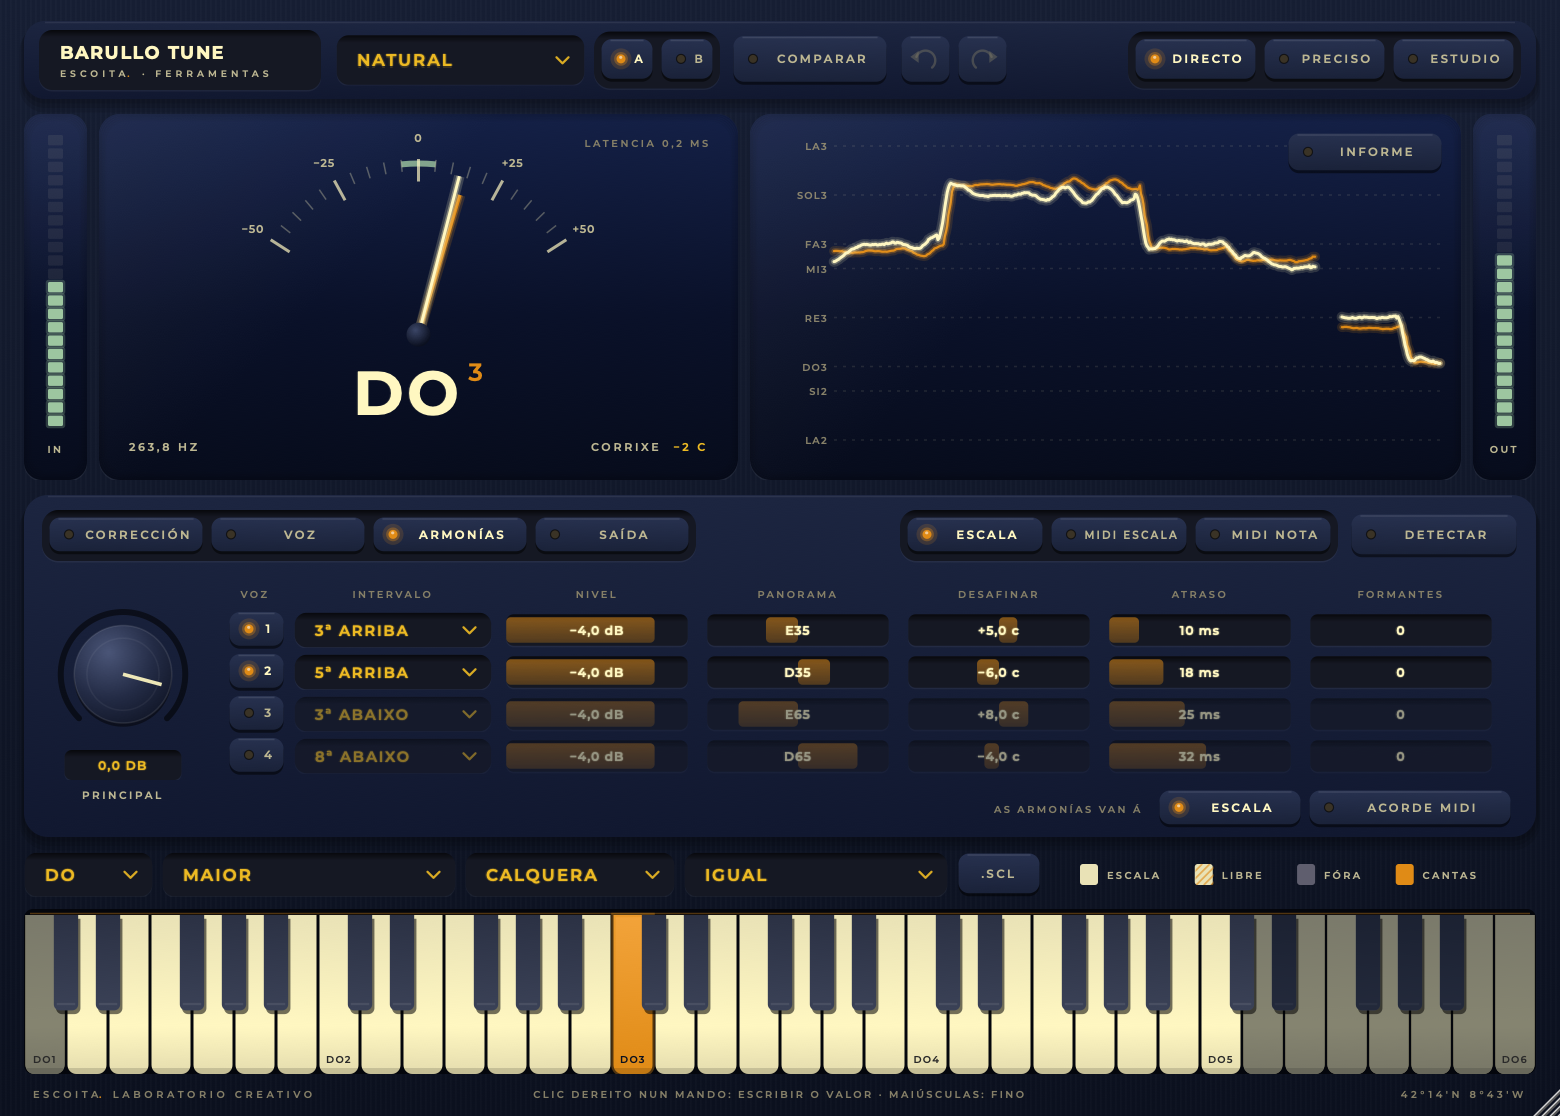
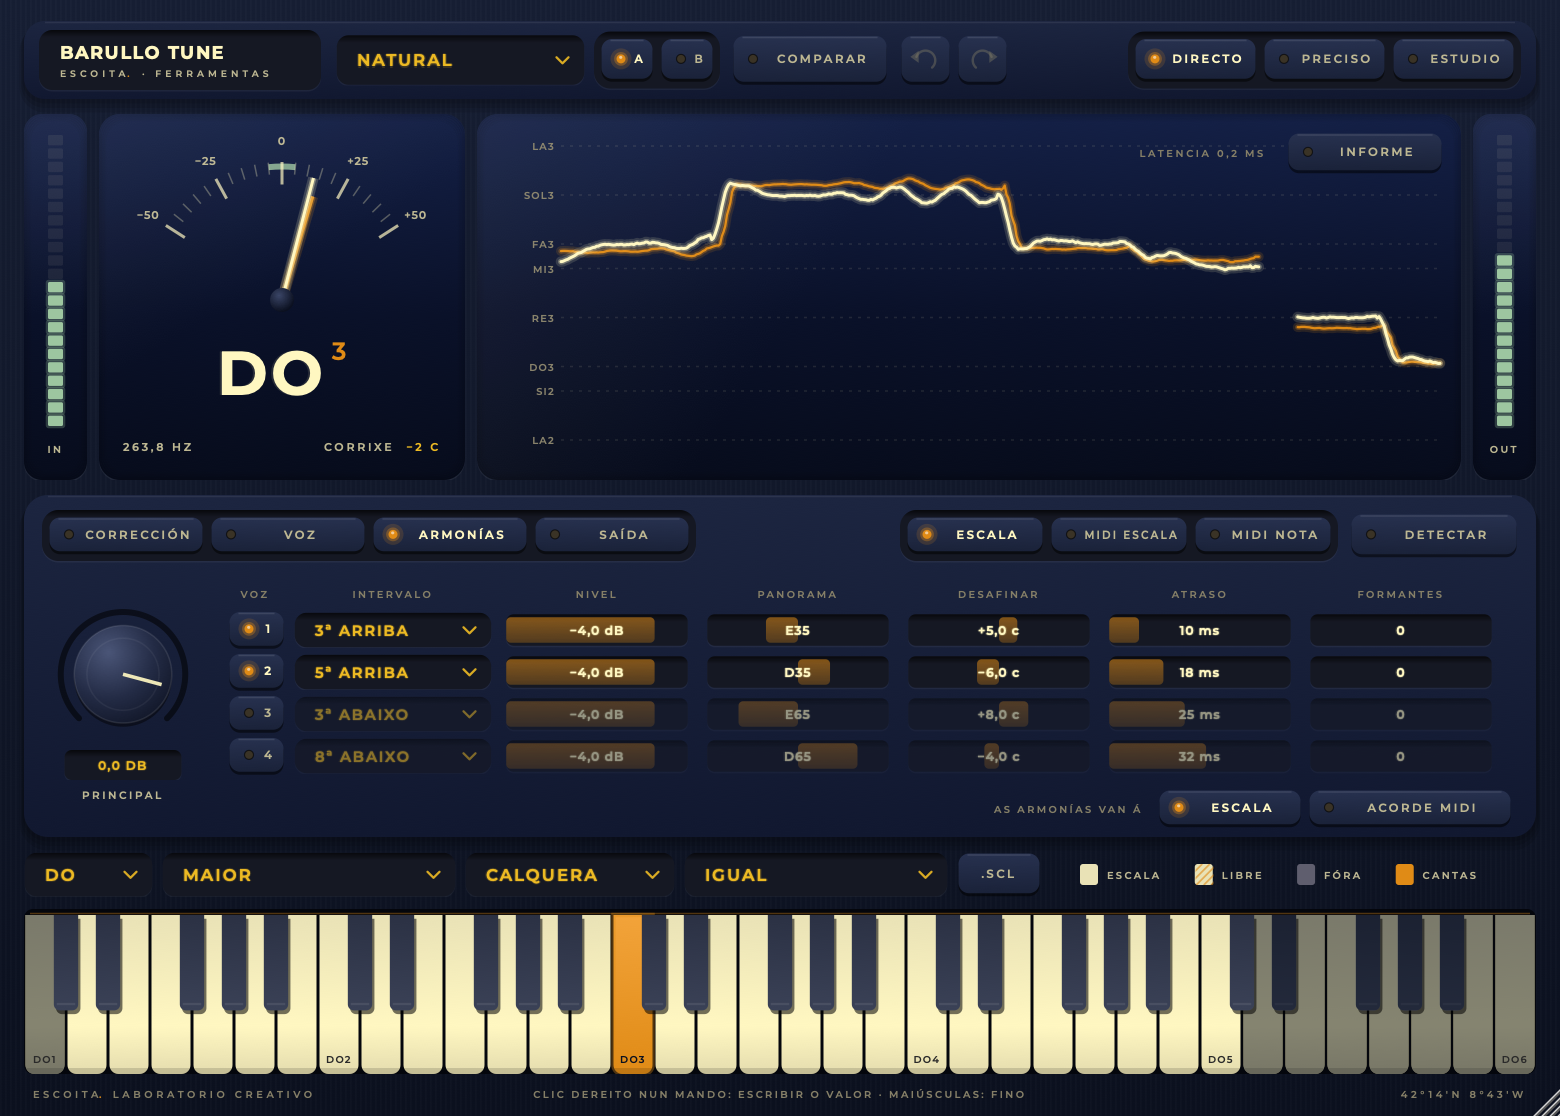
Barullo Tune: o afinador, cadrado; o rastro do ton estírase
O afinador de agulla ocupa agora un cadrado (tan ancho coma alto) e o rastro
do ton colle todo o ancho que sobra. A latencia pasa ao rastro, á esquerda
do botón do informe.

diff --git a/Source/PluginEditor.cpp b/Source/PluginEditor.cpp
@@ -438,8 +438,8 @@ void Display::paintMeter (juce::Graphics& g, juce::Rectangle<float> r, float lev
 // o afinador: un medidor de agulla (laranxa a túa voz, crema a afinada) e a nota debaixo
 void Display::paintArc (juce::Graphics& g, juce::Rectangle<float> area)
 {
-    const float R = juce::jmin (area.getWidth() * 0.5f - 46.0f, area.getHeight() * 0.48f);
-    const juce::Point<float> c (area.getCentreX(), area.getY() + 30.0f + R);
+    const float R = juce::jmin (area.getWidth() * 0.5f - 30.0f, area.getHeight() * 0.38f);
+    const juce::Point<float> c (area.getCentreX(), area.getY() + 32.0f + R);
     const float span = 1.0f;    // radiáns a cada lado (±57°)
     auto angOf = [span] (float cents) { return juce::jlimit (-50.0f, 50.0f, cents) / 50.0f * span; };
     auto at = [&] (float ang, float rad) { return juce::Point<float> (c.x + rad * std::sin (ang), c.y - rad * std::cos (ang)); };
@@ -487,7 +487,7 @@ void Display::paintArc (juce::Graphics& g, juce::Rectangle<float> area)
     }
 
     // a nota, debaixo do eixo
-    auto noteBox = juce::Rectangle<float> (area.getX(), c.y + 10.0f, area.getWidth(), area.getBottom() - c.y - 40.0f);
+    auto noteBox = juce::Rectangle<float> (area.getX(), c.y + 8.0f, area.getWidth(), area.getBottom() - c.y - 40.0f);
     if (voiced && target >= 0)
     {
         const auto name = upper (scales::noteName (target));
@@ -508,7 +508,7 @@ void Display::paintArc (juce::Graphics& g, juce::Rectangle<float> area)
         g.setColour (col::crema3);
         drawCaps (g, U ("Canta algo"), noteBox, juce::Justification::centred, 16.0f, 0.2f);
     }
-    auto info = juce::Rectangle<float> (area.getX() + 20.0f, area.getBottom() - 30.0f, area.getWidth() - 40.0f, 16.0f);
+    auto info = juce::Rectangle<float> (area.getX() + 16.0f, area.getBottom() - 30.0f, area.getWidth() - 32.0f, 16.0f);
     if (voiced)
     {
         const int cc = juce::roundToInt (outDev - inDev);
@@ -520,11 +520,6 @@ void Display::paintArc (juce::Graphics& g, juce::Rectangle<float> area)
         g.setColour (col::ouro);
         drawCaps (g, corr, info, juce::Justification::centredRight, 9.0f, 0.2f);
     }
-    // a latencia, arriba á dereita
-    const float lat = proc.latencyMs();
-    g.setColour (col::crema3);
-    drawCaps (g, U ("Latencia ") + (lat < 10.0f ? num (lat, 1) : num (lat, 0)) + " ms",
-              juce::Rectangle<float> (area.getX() + 18.0f, area.getY() + 12.0f, area.getWidth() - 36.0f, 14.0f), juce::Justification::centredRight, 8.0f, 0.22f);
 }
 
 // o ton nos últimos segundos: carrís das notas da escala, a túa voz e a afinada, con brillo
@@ -582,6 +577,11 @@ void Display::paintTrace (juce::Graphics& g, juce::Rectangle<float> box)
     glow (pathOf (false), col::laranxa, 1.5f);
     glow (pathOf (true), col::crema, 2.0f);
     g.restoreState();
+    // a latencia, arriba á dereita (á esquerda do botón do informe)
+    const float lat = proc.latencyMs();
+    g.setColour (col::crema3);
+    drawCaps (g, U ("Latencia ") + (lat < 10.0f ? num (lat, 1) : num (lat, 0)) + " ms",
+              juce::Rectangle<float> (box.getX() + 18.0f, box.getY() + 19.0f, box.getWidth() - 18.0f - 130.0f, 14.0f), juce::Justification::centredRight, 8.0f, 0.22f);
 }
 
 void Display::paint (juce::Graphics& g)
@@ -589,7 +589,7 @@ void Display::paint (juce::Graphics& g)
     auto r = getLocalBounds().toFloat();
     auto mIn = r.removeFromLeft (42.0f); r.removeFromLeft (8.0f);
     auto mOut = r.removeFromRight (42.0f); r.removeFromRight (8.0f);
-    auto tun = r.removeFromLeft (426.0f); r.removeFromLeft (8.0f);
+    auto tun = r.removeFromLeft (r.getHeight()); r.removeFromLeft (8.0f);   // o afinador, cadrado; o rastro, o resto
     paintMeter (g, mIn, inLv, "In");
     paintMeter (g, mOut, outLv, "Out");
     paintGlass (g, tun, 14.0f); paintArc (g, tun); paintGlassShine (g, tun, 14.0f);

diff --git a/docs/MANUAL.md b/docs/MANUAL.md
@@ -28,8 +28,8 @@ O DAW compensa a latencia ao reproducir. Directo declara 0, así que non atrasa 
 
 ## A pantalla
 
-- **Á esquerda**, a nota á que vai a voz. A agulla laranxa é a túa voz e a crema a afinada, en cents (−50 a +50); a zona verde é ±5 cents. Enriba, a latencia de verdade.
-- **Á dereita**, o ton nos últimos segundos: laranxa a túa voz, crema a afinada.
+- **Á esquerda**, a nota á que vai a voz. A agulla laranxa é a túa voz e a crema a afinada, en cents (−50 a +50); a zona verde é ±5 cents.
+- **Á dereita**, o ton nos últimos segundos: laranxa a túa voz, crema a afinada. Enriba, a latencia de verdade.
 - **Nos lados**, o nivel de entrada (In) e de saída (Out).
 - **Informe**: como afinas ti. Mira «Practicar», máis abaixo.
 
